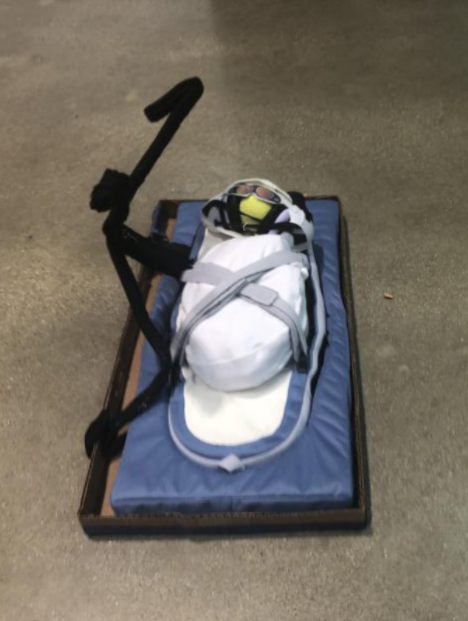
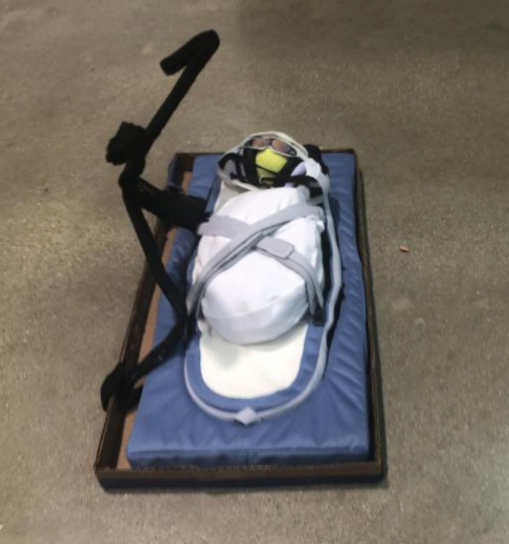
push test 21, images formatted

diff --git a/projects.html b/projects.html
@@ -65,6 +65,8 @@
 	  ended as divisional finalists, and won the national signature event (the second largest competition in the world).
 	</p>
 
+	<h3>2019</h3>
+
 	<div id="images">
   	<figure class='img-text'>
    	 <img class="center" src="images/robot2.jpg" alt="tp1">
@@ -110,8 +112,8 @@
 
         <div id="images">
           <img class="center" src="images/baby2.png" alt="strap1">
-          <img class="center" src="images/baby3.png" alt="strap2">
-	  <img class="center" src="images/baby4.png" alt="strap3">
+          <img class="center" src="images/baby4.png" alt="strap2">
+	  <img class="center" src="images/baby6.png" alt="strap3">
         </div>
 
         <p>

diff --git a/style.css b/style.css
@@ -46,8 +46,8 @@ h2 {
   font-size: 24px;
   color: grey;
   line-height: 25px;
-  margin-bottom: 0;
-  margin-top: 15px;
+  margin-bottom: 30px;
+  margin-top: 30px;
   text-align: left;
 }
 
@@ -55,7 +55,7 @@ h3 {
   font-family: isoc;
   font-size: 20px;
   color: grey;
-  margin: 10px 0 10px 0;
+  margin: 30px 0 30px 0;
   letter-spacing: -2px;
 }
 
